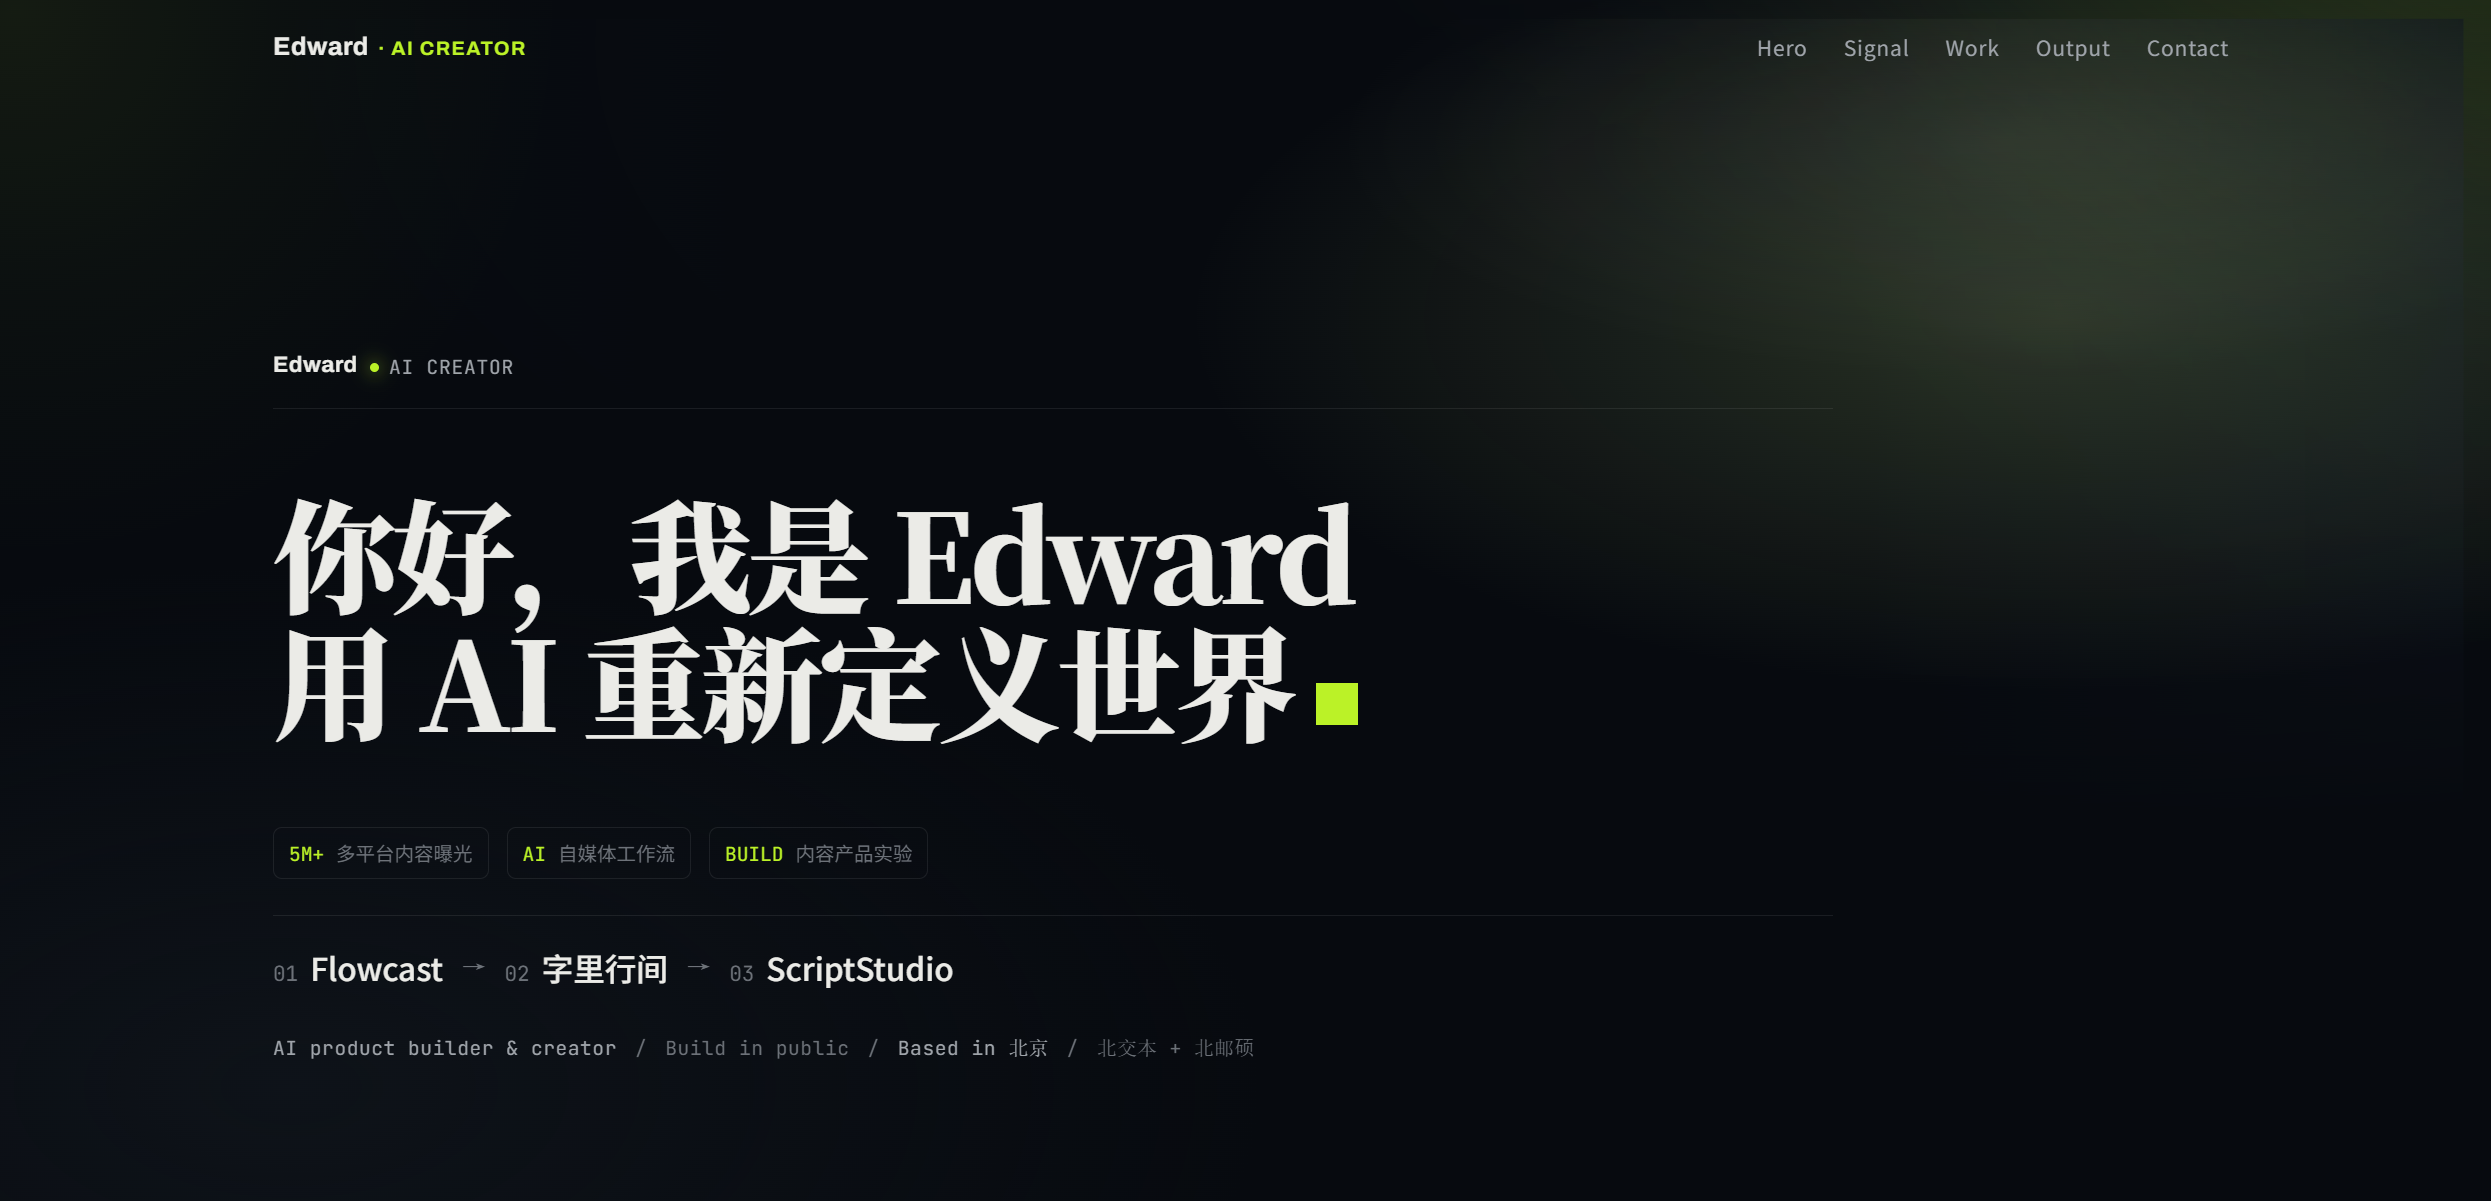
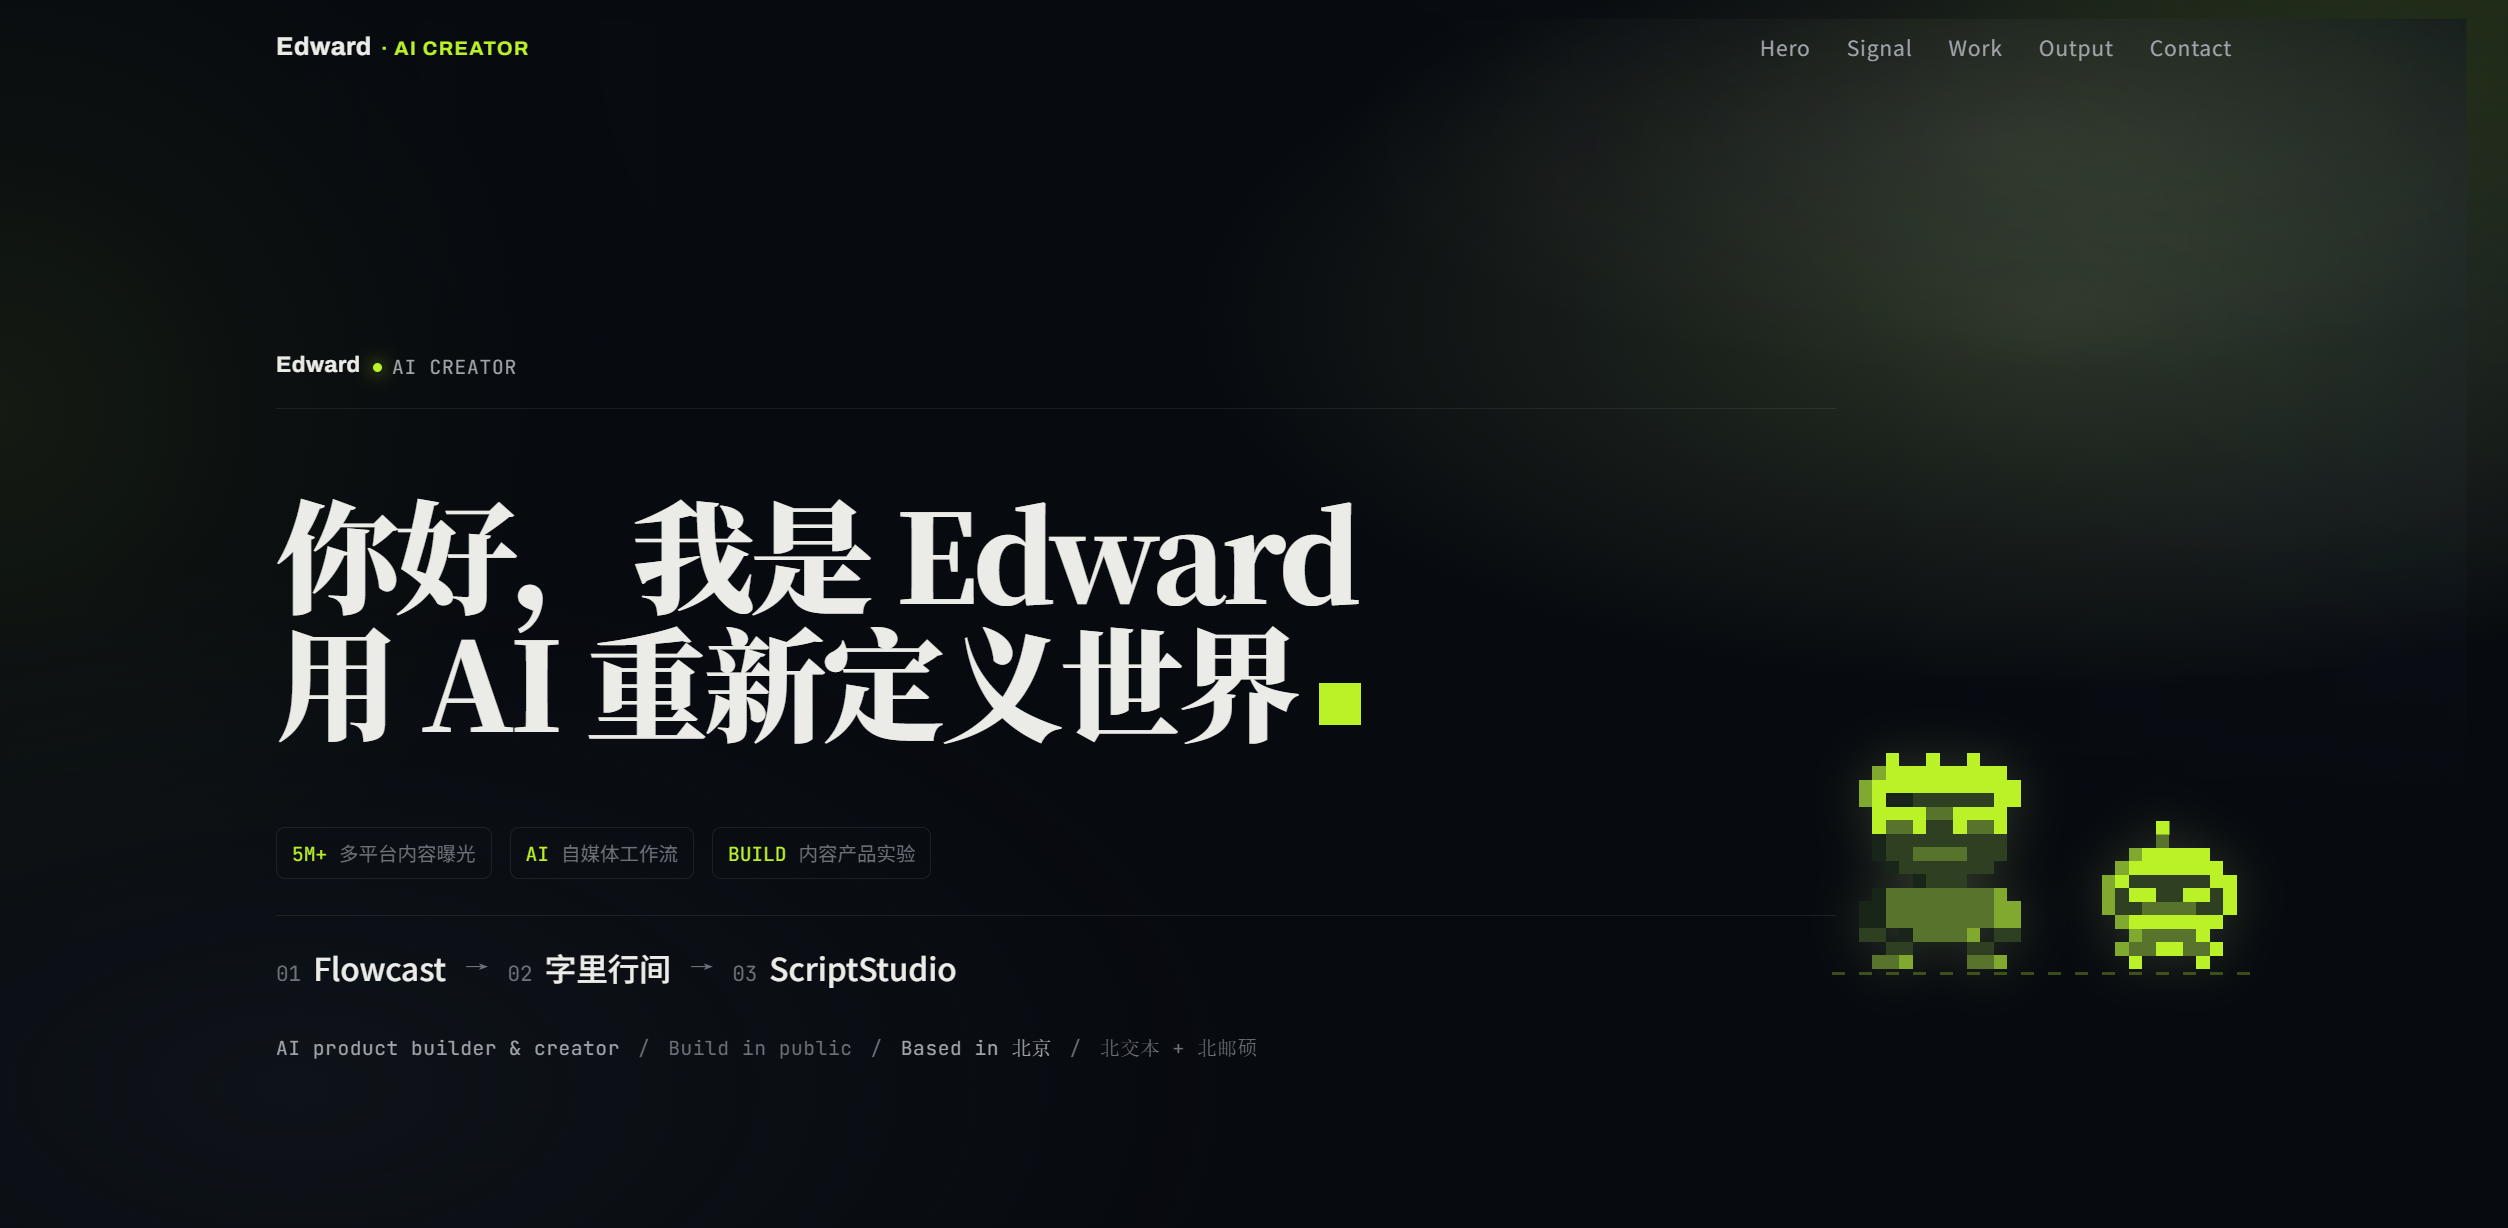
chore: update GitHub handle to Edwardxlai, refresh hero screenshot

diff --git a/src/data/site.ts b/src/data/site.ts
@@ -25,8 +25,8 @@ export const identity = {
   // 教育信息推荐写法（brand-source §1）
   status: '北交本 + 北邮硕',
   email: '[email redacted]',
-  github: 'https://github.com/Edwardsamaxl',
-  githubHandle: 'Edwardsamaxl',
+  github: 'https://github.com/Edwardxlai',
+  githubHandle: 'Edwardxlai',
 } as const;
 
 // Hero 巨型主张（编辑×系统方向）—— 问题即主张